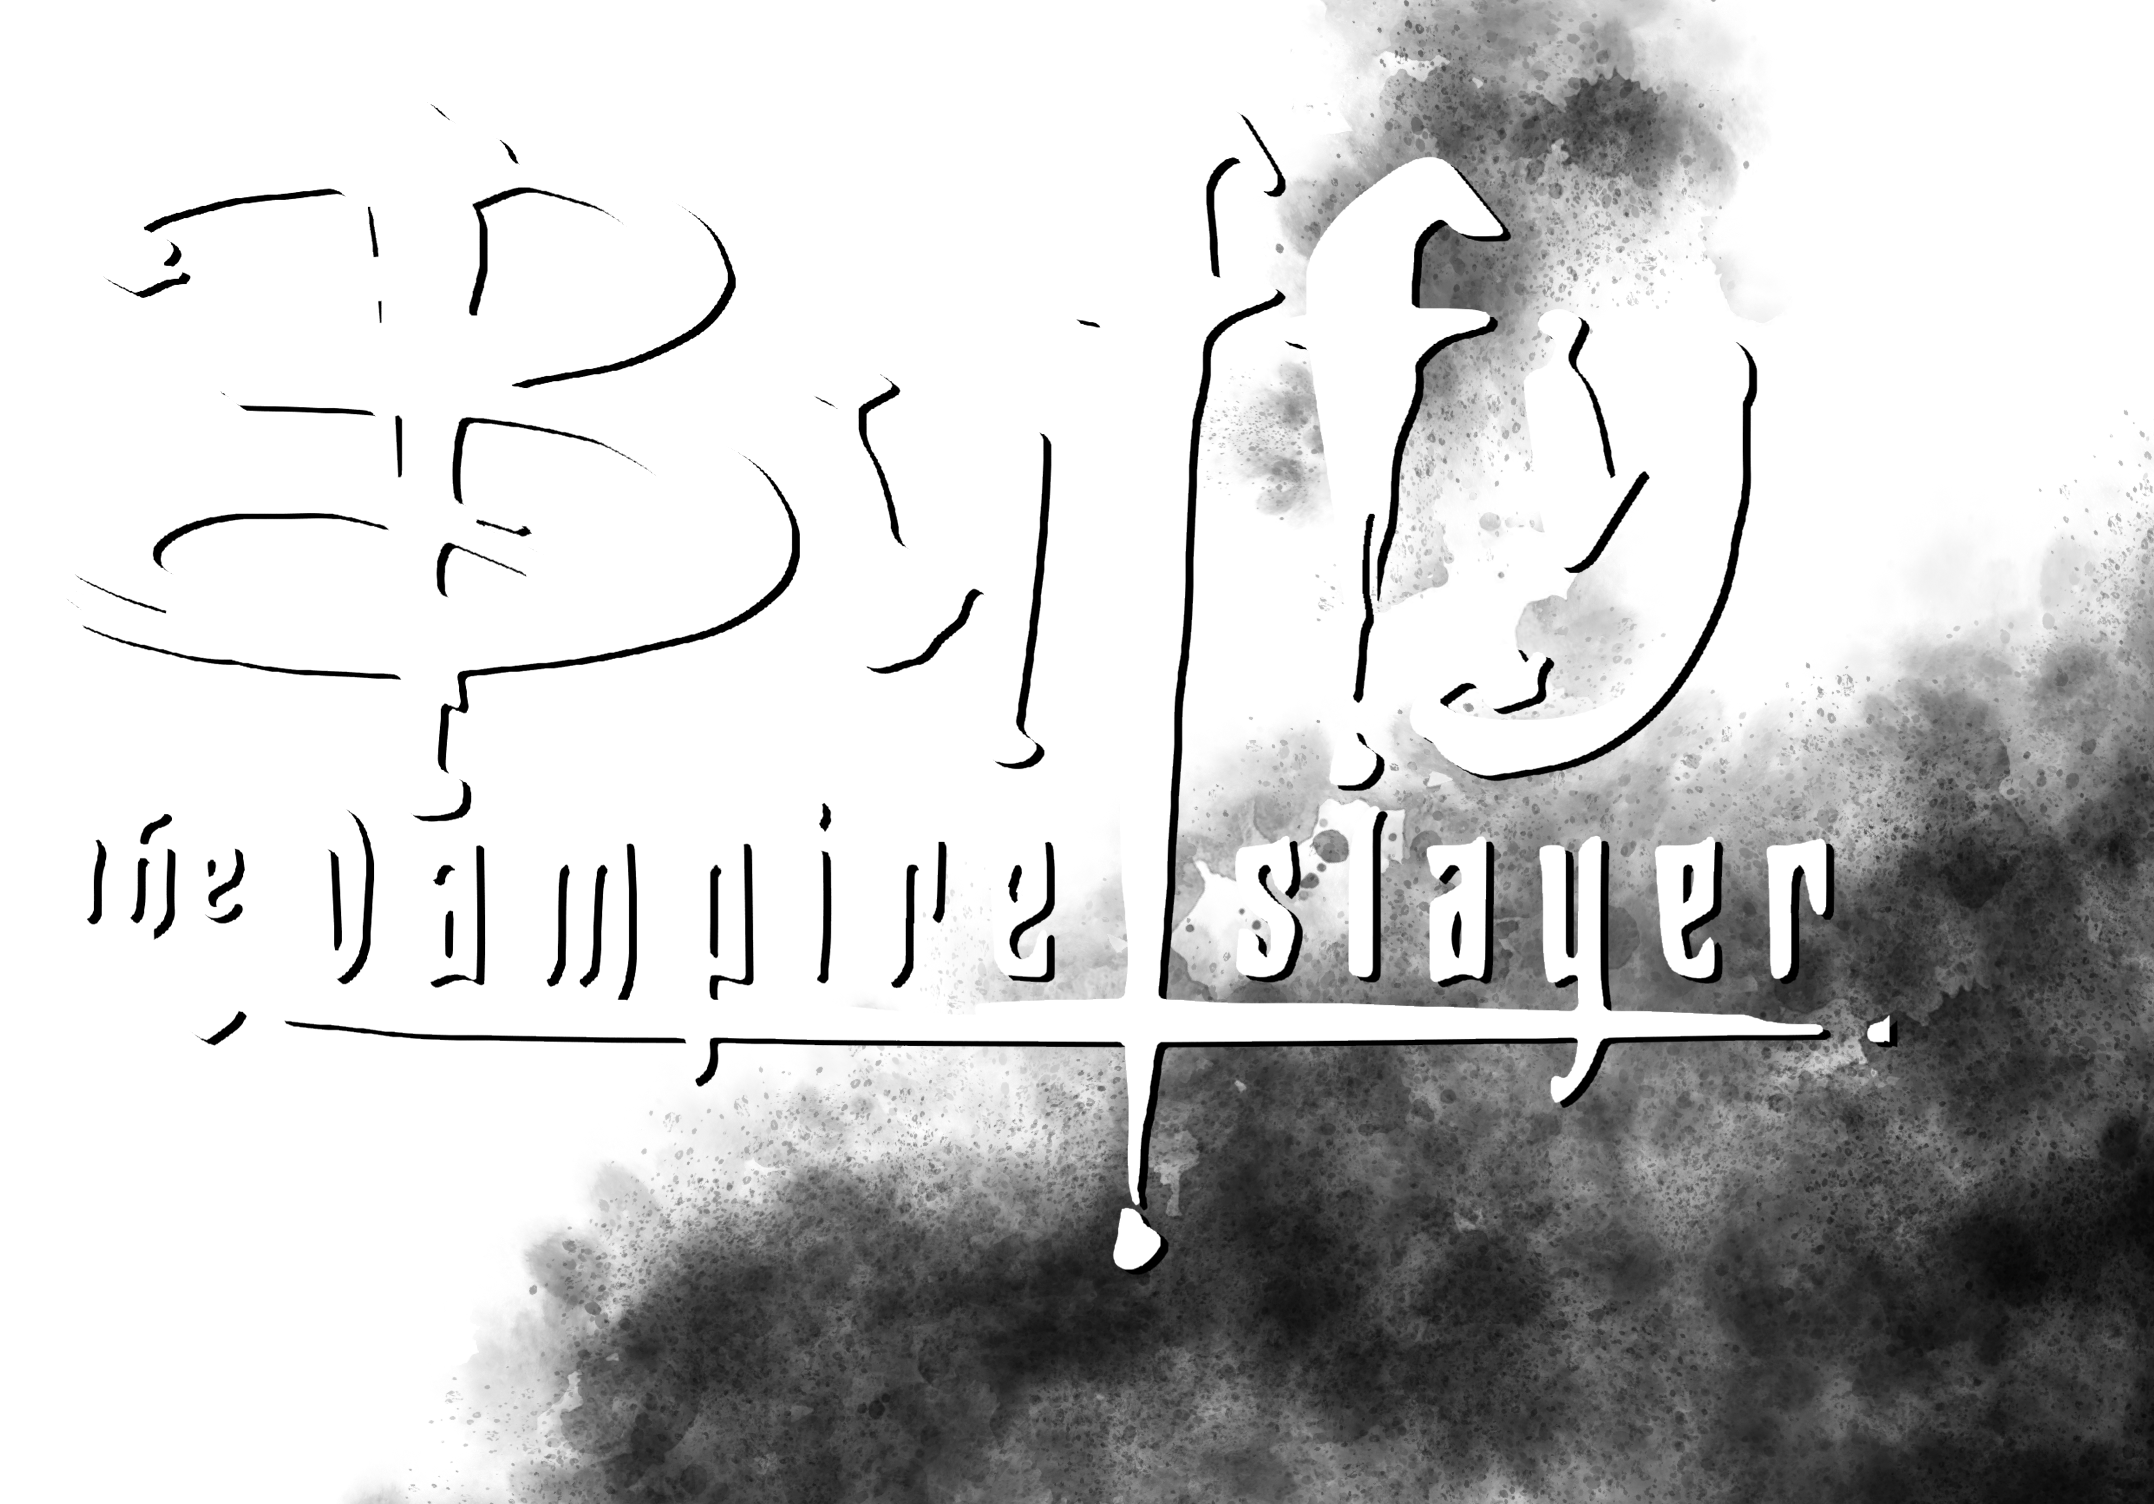
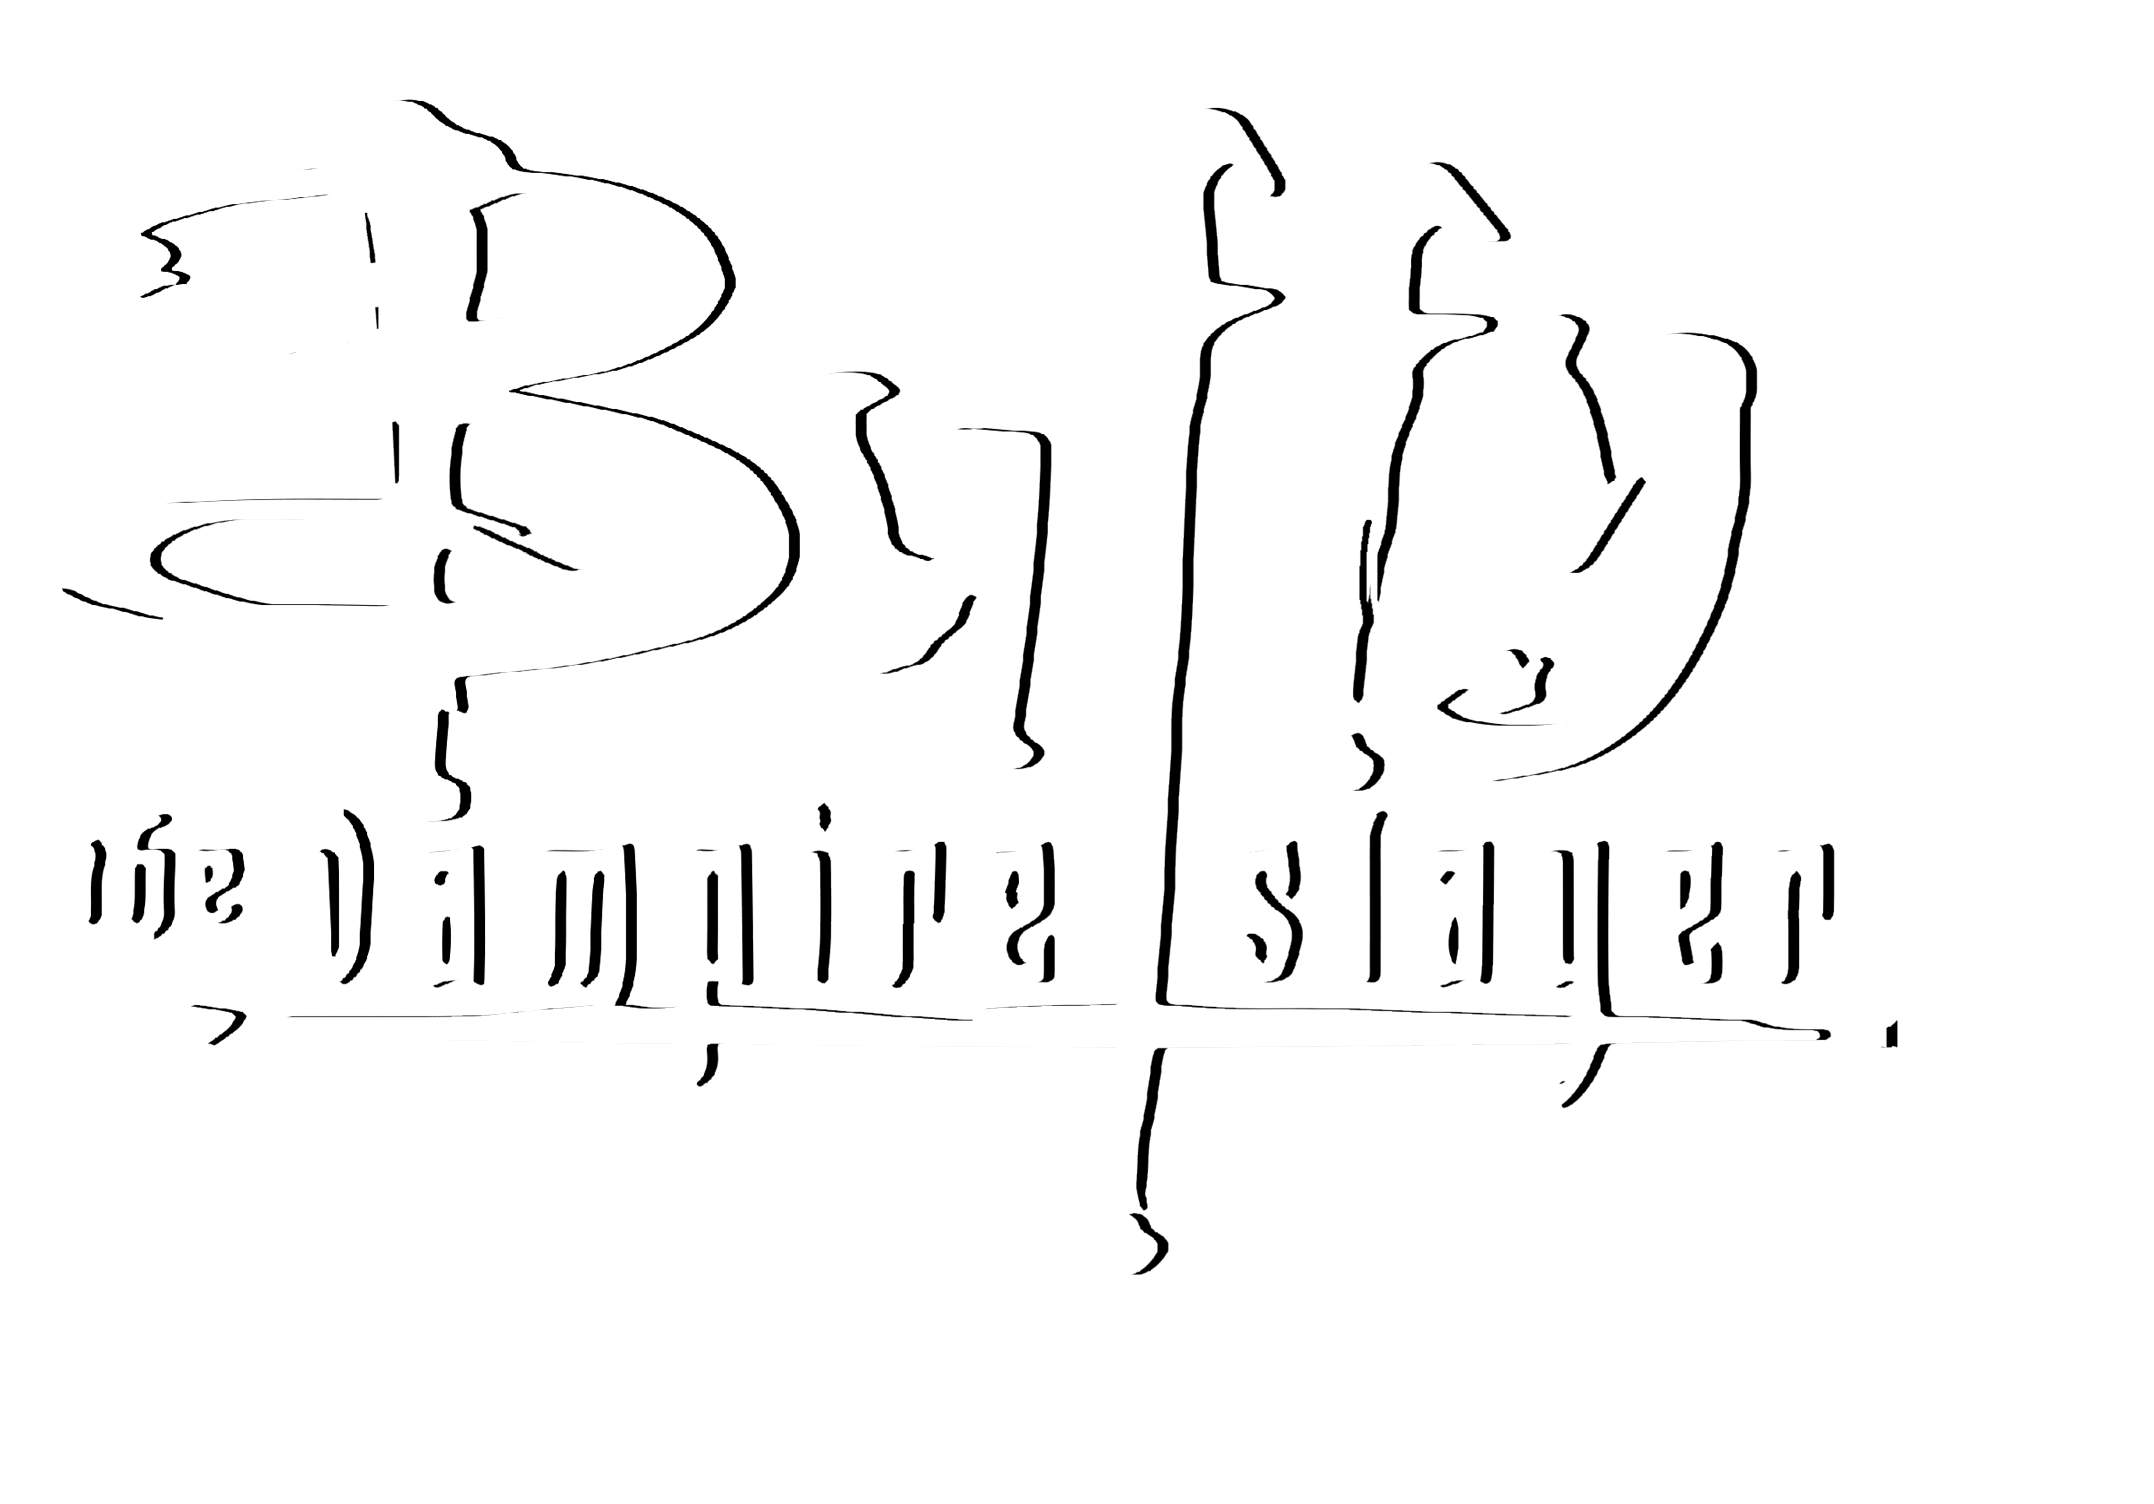
Routing (#1)
* basic routing
* moved filter inside Deck
* moved link to just logo, added cloud

diff --git a/src/components/Header.tsx b/src/components/Header.tsx
@@ -1,31 +1,29 @@
 import React from "react";
+import Nav from "./Nav";
+import { Link } from "react-router-dom";
 
 const Header: React.FC = () => {
   return (
-    <div className="pb-96">
+    <div className="mx-64 pb-96">
       <img
         className="absolute ml-32 w-96 left-96"
         src="src/assets/header/moon.png"
         alt="Buffy the Vampire Slayer"
       />
       <img
-        className="absolute w-1/3 mt-20 ml-64"
-        src="src/assets/header/title-noclouds.png"
+        className="absolute w-1/3 opacity-50 top-40 mix-blend-lighten right-60"
+        src="https://www.pngmart.com/files/11/Storm-Cloud-PNG.png"
         alt="Buffy the Vampire Slayer"
       />
+      <Link to="/">
+        <img
+          className="absolute w-1/3 mt-20 ml-64"
+          src="src/assets/header/title.png"
+          alt="Buffy the Vampire Slayer"
+        />
+      </Link>
       <div className="absolute top-4 right-6">
-        <a
-          href="/doc"
-          className="p-4 text-2xl text-white underline font-lacquer"
-        >
-          Doc
-        </a>
-        <a
-          href="/about"
-          className="p-4 text-2xl text-white underline cursor-pointer font-lacquer"
-        >
-          About
-        </a>
+        <Nav />
       </div>
     </div>
   );

diff --git a/src/App.tsx b/src/App.tsx
@@ -1,16 +1,26 @@
-import { BrowserRouter, Route, Routes } from "react-router-dom";
-import Home from "./Home";
-import Page from "./components/Page";
+import {
+  createBrowserRouter,
+  Route,
+  createRoutesFromElements,
+  RouterProvider,
+} from "react-router-dom";
+import "./index.css";
+import RootLayout from "./RootLayout";
+import Page from "./Pages/Page";
+import Deck from "./Pages/Deck";
+import { loader } from "./components/Loader";
 
-const App = () => {
-  return (
-    <BrowserRouter>
-      <Routes>
-        {/* <Route path="/" element={<Home />} /> */}
-        <Route path="/" element={<Page title="about" />} />
-      </Routes>
-    </BrowserRouter>
-  );
-};
+const router = createBrowserRouter(
+  createRoutesFromElements(
+    <Route path="/" element={<RootLayout />}>
+      <Route index element={<Deck />} loader={loader} />
+      <Route path="/about" element={<Page />} />
+    </Route>
+  )
+);
+
+function App() {
+  return <RouterProvider router={router} />;
+}
 
 export default App;

diff --git a/src/Pages/Deck.tsx b/src/Pages/Deck.tsx
@@ -1,0 +1,21 @@
+import Card from "../components/Card";
+import Filters from "../components/Filter";
+import { people } from "../people.json";
+
+const Deck = () => {
+  return (
+    <div className="px-6 mx-auto text-center max-w-7xl lg:px-8">
+      <Filters />
+      <ul
+        role="list"
+        className="grid max-w-2xl grid-cols-1 gap-6 mx-auto sm:grid-cols-2 lg:mx-0 lg:max-w-none lg:grid-cols-3 lg:gap-x-20"
+      >
+        {people.map((person) => (
+          <Card {...person} />
+        ))}
+      </ul>
+    </div>
+  );
+};
+
+export default Deck;

diff --git a/src/main.tsx b/src/main.tsx
@@ -1,10 +1,9 @@
-import React from 'react'
-import ReactDOM from 'react-dom/client'
-import App from './App.tsx'
-import './index.css'
+import React from "react";
+import ReactDOM from "react-dom/client";
+import App from "./App";
 
-ReactDOM.createRoot(document.getElementById('root') as HTMLElement).render(
+ReactDOM.createRoot(document.getElementById("root")).render(
   <React.StrictMode>
     <App />
-  </React.StrictMode>,
-)
+  </React.StrictMode>
+);

diff --git a/src/components/Nav.tsx b/src/components/Nav.tsx
@@ -1,0 +1,22 @@
+import { Link } from "react-router-dom";
+
+const Nav = () => {
+  return (
+    <div className="flex">
+      <Link
+        to="/doc"
+        className="p-4 text-2xl text-white underline font-lacquer"
+      >
+        Doc
+      </Link>
+      <Link
+        className="p-4 text-2xl text-white underline cursor-pointer font-lacquer"
+        to="/about"
+      >
+        About
+      </Link>
+    </div>
+  );
+};
+
+export default Nav;

diff --git a/src/RootLayout.tsx b/src/RootLayout.tsx
@@ -1,0 +1,14 @@
+import Header from "./components/Header.tsx";
+import Footer from "./components/Footer.tsx";
+import { Outlet } from "react-router-dom";
+const RootLayout: React.FC = () => {
+  return (
+    <div className="pt-6 bg-fixed bg-cover bg-center bg-[url('src/assets/header/sky.jpg')]">
+      <Header />
+      <Outlet />
+      <Footer />
+    </div>
+  );
+};
+
+export default RootLayout;

diff --git a/src/components/Loader.tsx b/src/components/Loader.tsx
@@ -1,0 +1,7 @@
+export const loader = () => {
+  return (
+    <div className="loader">
+      <img src="src/assets/buffering.png" alt="loader" />
+    </div>
+  );
+};
